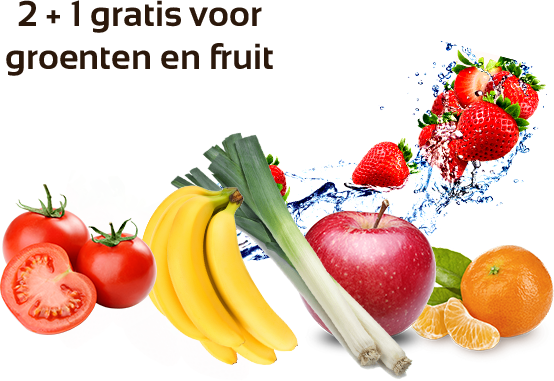
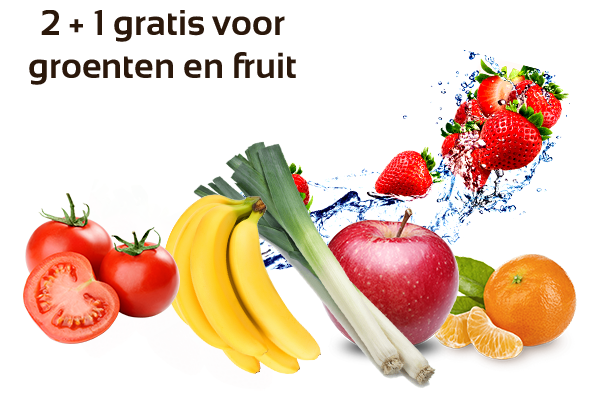
commit

diff --git a/index.html b/index.html
@@ -56,14 +56,14 @@
         <div class="carousel-inner">
           <div class="carousel-item active" data-bs-interval="4000">
               <div class="c-header__imgcontainer c-header__slide1bg">
-                  <img src="./assets/img/carrousel_slide_1.png" width="662" height="366" class="d-block mb-5 c-header__slide w-50 h-50" alt="Promoties van diepvriesproducten">
+                  <img src="./assets/img/carrousel_slide_1.png" width="600" height="400" class="d-block mb-5 c-header__slide w-50 h-50" alt="Promoties van diepvriesproducten">
               </div> 
             <div class="carousel-caption d-none d-md-block">
             </div>
           </div>
           <div class="carousel-item" data-bs-interval="4000">
               <div class="c-header__imgcontainer c-header__slide2bg">
-                    <img src="./assets/img/carousel_slide_2.png" class="d-block c-header__slide2 w-50 h-50" alt="slide 2">
+                    <img src="./assets/img/carousel_slide_2.png" width="600" height="400" class="d-block c-header__slide2 w-50 h-50" alt="slide 2">
               </div>
             
             <div class="carousel-caption d-none d-md-block">
@@ -71,7 +71,7 @@
           </div>
           <div class="carousel-item" data-bs-interval="4000">
               <div class="c-header__imgcontainer c-header__slide3bg">
-                <img src="./assets/img/Untitled-3.png" class="d-block w-50 h-50" alt="...">
+                <img src="./assets/img/carrousel_slide_3.png" width="600" height="400" class="d-block w-50 h-50" alt="...">
               </div>
             
             <div class="carousel-caption d-none d-md-block">
@@ -198,9 +198,9 @@
               <div id="collapseOne" class="accordion-collapse collapse show" aria-labelledby="headingOne" data-bs-parent="#accordionExample">
                 <div class="accordion-body">
                   Telefoonnummer: <br>
-		              02 412 21 11
-                  Telefoonnuiimmer klantendienst: <br>
-		              0800 95 713.
+		              <div class="c-tab2">02 412 21 11 </div><br>
+                  Telefoonnummer klantendienst: <br>
+		              <div class="c-tab2">0800 95 713.</div>
                 </div>
               </div>
             </div>
@@ -213,11 +213,11 @@
               <div id="collapseTwo" class="accordion-collapse collapse" aria-labelledby="headingTwo" data-bs-parent="#accordionExample">
                 <div class="accordion-body">
                   Osseghemstraat, 53 <br>
-                      1080 Brussel
+                      <div class="c-tab">1080 Brussel</div>
                   Watervalstraat 22 A, <br>
-                      8850 Ardooie
+                      <div class="c-tab">8850 Ardooie</div>
                   Ieperstraat 63, <br>
-                      8700 Tielt
+                      <div class="c-tab">8700 Tielt</div>
                 </div>
               </div>
             </div>
@@ -229,17 +229,18 @@
               </h3>
               <div id="collapseThree" class="accordion-collapse collapse" aria-labelledby="headingThree" data-bs-parent="#accordionExample">
                 <div class="accordion-body">
-                  <div class="c-contactus__textcontainer">
-                    Bezoek ons op Facebook <br> <br> 
+                  <div class="c-contactus__textcontainer col-lg-4">
+                    <div class="c-contactus__textspacing">Bezoek ons op Facebook</div> <br> 
 
-                    Bezoek ons op Instagram <br> <br> 
+                    <div class="c-contactus__textspacing">Bezoek ons op Instagram</div> <br> 
 
-                    Bezoek ons op Linkedin<br> <br> 
+                    <div class="c-contactus__textspacing">Bezoek ons op Linkedin</div> <br> 
                   </div>
-                  <div class="c-contactus_imgcontainer">
-
+                  <div class="c-contactus__socialiconcontainer">
+                    <img src="./assets/img/facebook_icon.png" class="c-contactus__socialicon" width="73" height="73" alt="facebook">
+                    <img src="./assets/img/Instagram_logo.png" class="c-contactus__socialicon" width="73" height="73" alt="instagram">
+                    <img src="./assets/img/Linkedin_icon.png" class="c-contactus__socialicon" width="73" height="73" alt="">
                   </div>
-
                 </div>
               </div>
             </div>

diff --git a/css/screen.scss b/css/screen.scss
@@ -33,6 +33,8 @@ $text_fontsize: 16px;
 $smalltext_fontsize: 10px;
 
 $roundedborder: 25px;
+$tab:.9375rem;
+$tab2:1.25rem;
 
 //------------------------------------------------------//
 //TOOLS//
@@ -130,19 +132,19 @@ body, html{
     background-color: $colorpaleyellow;
     border-bottom-left-radius: 1.5625rem;
     border-bottom-right-radius: 1.5625rem;
-    padding: 3.5rem 0;
+
   }
   &__slide2bg {
     background-color: $colorpalegreenslide2;
     border-bottom-left-radius: 1.5625rem;
     border-bottom-right-radius: 1.5625rem;
-    padding: 5.7rem 0;
+
   }
   &__slide3bg {
     background-color: $colorpaleorange;
     border-bottom-left-radius: 1.5625rem;
     border-bottom-right-radius: 1.5625rem;
-    padding: 4rem 0;
+
   }
 }
 .c-subtitle {
@@ -231,7 +233,13 @@ body, html{
   }
 }
 .c-contactus{
-  
+
+}
+.c-tab{
+  margin-left: $tab;
+}
+.c-tab2{
+  margin-left: $tab2;
 }
 //------------------------------------------------------//
 //BOOTSTRAP//
@@ -252,6 +260,10 @@ body, html{
   border-color: transparent;
 
 }
+.accardion, .accordion-header{
+  text-align: center;
+}
+
 //------------------------------------------------------//
 //UTILITIES//
 //------------------------------------------------------//

diff --git a/css/screen.css b/css/screen.css
@@ -104,21 +104,18 @@ body, html {
   background-color: #ffef93;
   border-bottom-left-radius: 1.5625rem;
   border-bottom-right-radius: 1.5625rem;
-  padding: 3.5rem 0;
 }
 
 .c-header__slide2bg {
   background-color: #9ccbbf;
   border-bottom-left-radius: 1.5625rem;
   border-bottom-right-radius: 1.5625rem;
-  padding: 5.7rem 0;
 }
 
 .c-header__slide3bg {
   background-color: #ffd0ae;
   border-bottom-left-radius: 1.5625rem;
   border-bottom-right-radius: 1.5625rem;
-  padding: 4rem 0;
 }
 
 .c-subtitle {
@@ -221,6 +218,14 @@ body, html {
   background-color: #ffd0ae;
 }
 
+.c-tab {
+  margin-left: 0.9375rem;
+}
+
+.c-tab2 {
+  margin-left: 1.25rem;
+}
+
 .form-control {
   border-top-left-radius: 15px;
   border-bottom-left-radius: 15px;
@@ -240,6 +245,11 @@ body, html {
   border-color: transparent;
 }
 
+.accardion, .accordion-header {
+  text-align: center;
+}
+
 .u-hotpink {
   background-color: hotpink;
 }
+/*# sourceMappingURL=screen.css.map */
